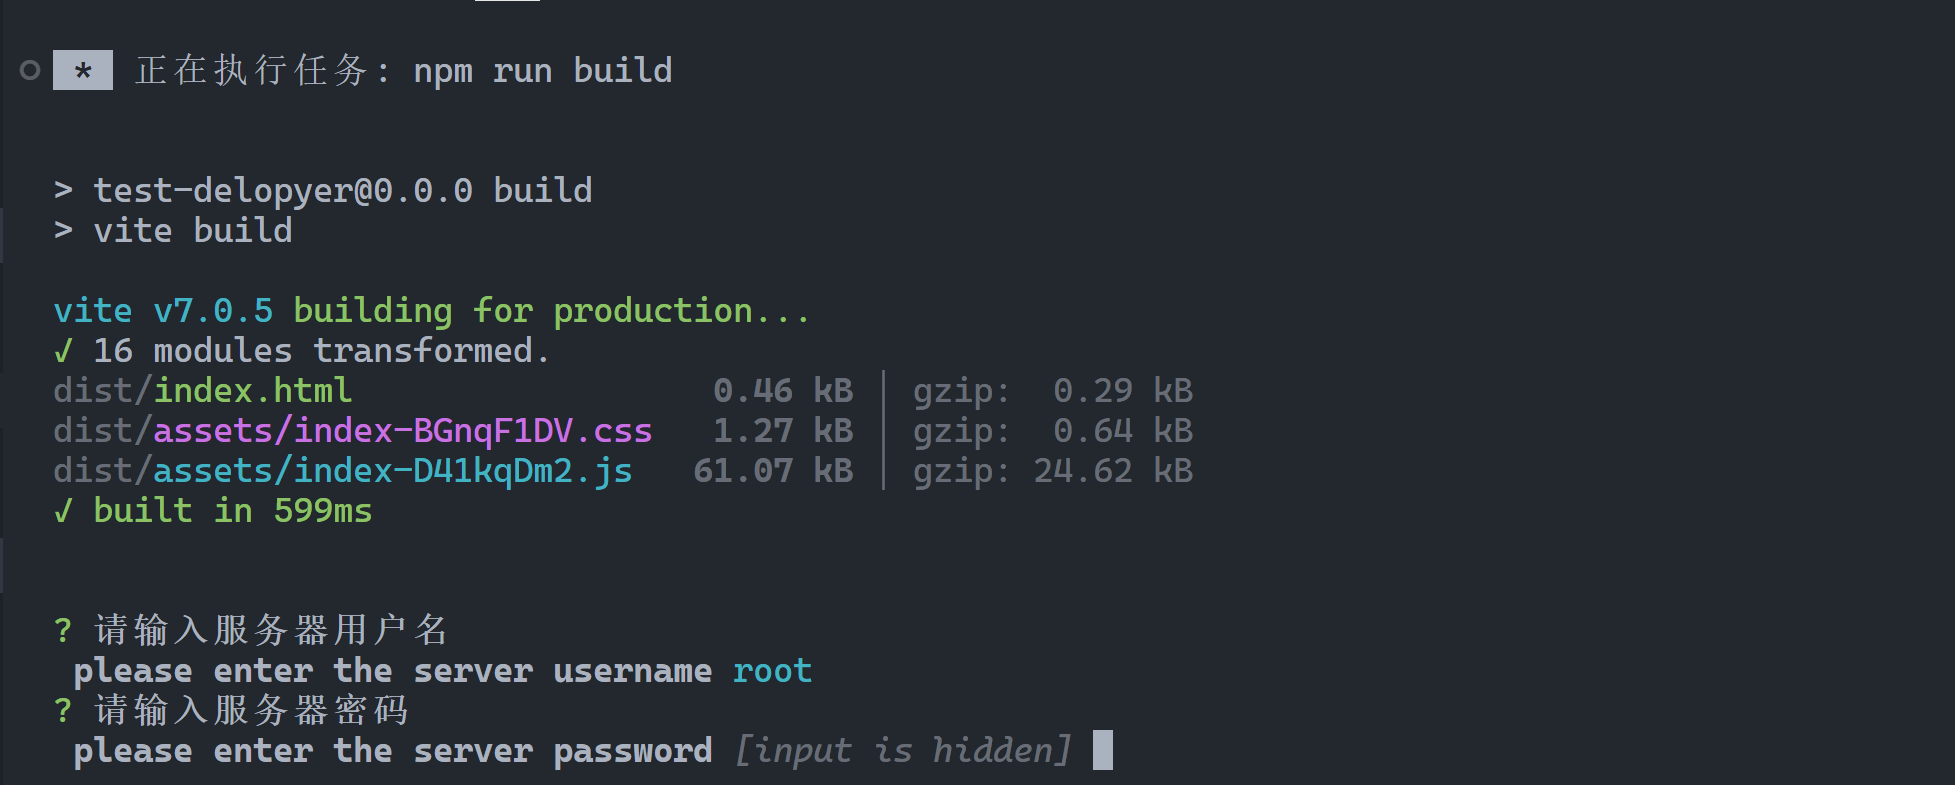
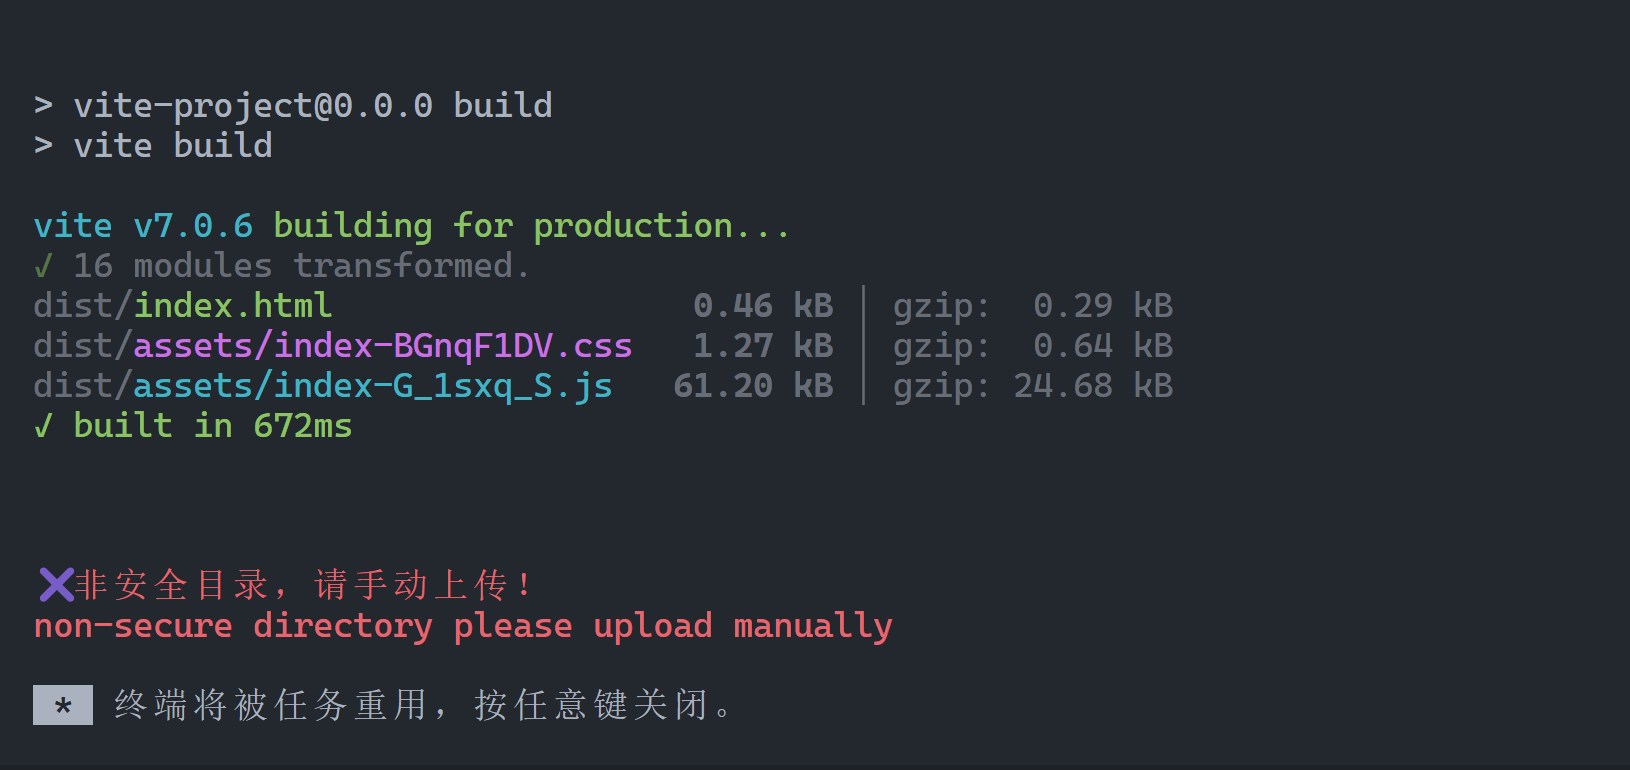
bugfix: 修复目录检查，整理检查方法

Changed region(s): [[0.0, 0.0623, 0.7362, 0.6857], [0.0, 0.7169, 0.5828, 0.9974]]

diff --git a/src/index.js b/src/index.js
@@ -5,10 +5,11 @@ const scpClient = require("scp2");
 let Client = require("ssh2").Client;
 let conn = new Client();
 
+let defaultConfig = {
+  readyTimeout: 5000
+};
+
 module.exports = function (options) {
-  let defaultConfig = {
-    readyTimeout: 5000
-  };
   return {
     name: "vite-plugin-auto-deployer",
     configResolved(resolvedCofnig) {
@@ -18,10 +19,12 @@ module.exports = function (options) {
     },
     async closeBundle() {
       console.log("\n");
-      const { env } = defaultConfig;
-      if (env === "development") {
+
+      // 是否是开发环境
+      if (isDev(defaultConfig)) {
         return;
       }
+
       if (Array.isArray(options) && !!options.length) {
         options = options.find((item) => item.mode == env);
         if (!options) {
@@ -34,6 +37,28 @@ module.exports = function (options) {
         }
       }
 
+      defaultConfig = { ...options, ...defaultConfig };
+
+      // 检查必填项
+      if (!checkRequiredFields(defaultConfig)) {
+        console.log(
+          chalk.red(
+            "\n✖ 缺少必填项，请手动上传！ \nmissing required fields please upload manually\n"
+          )
+        );
+        return;
+      }
+
+      // 检测是否为安全目录
+      if (isDangerDir(defaultConfig)) {
+        console.log(
+          chalk.red(
+            "\n✖ 非安全目录，请手动上传！ \nnon-secure directory please upload manually\n"
+          )
+        );
+        return;
+      }
+
       if (options.name) {
         console.log(
           chalk.blue(
@@ -42,50 +67,18 @@ module.exports = function (options) {
         );
       }
 
-      const { password, username } = options;
-      const question = [];
-
-      if (!username) {
-        question.push({
-          type: "input",
-          name: "username",
-          default: "root",
-          message: "请输入服务器用户名 \n please enter the server username",
-          validate: (val) => {
-            if (!val) {
-              return "请输入服务器用户名 \n please enter the server username";
-            }
-            return true;
-          }
-        });
+      // 检测登录信息
+      if (!await checkLoginInfo(defaultConfig)) {
+        console.log(
+          chalk.red(
+            "\n✖ 登录信息不完整，请手动上传！ \nlogin information incomplete please upload manually\n"
+          )
+        );
+        return;
       }
 
-      if (!password) {
-        question.push({
-          type: "password",
-          name: "password",
-          message: "请输入服务器密码 \n please enter the server password",
-          validate: (val) => {
-            if (!val) {
-              return "请输入服务器密码 \n please enter the server password";
-            }
-            return true;
-          }
-        });
-      }
-
-      const answers = await inquirer.prompt(question);
-      if (answers.username) {
-        options.username = answers.username;
-      }
-
-      if (answers.password) {
-        options.password = answers.password;
-      }
-      let megerOption = { ...options, ...defaultConfig };
-
-      conn.connect(megerOption);
-      conn.on("ready", () => onReady(megerOption));
+      conn.connect(defaultConfig);
+      conn.on("ready", () => onReady(defaultConfig));
       conn.on("error", onError);
     }
   };
@@ -96,49 +89,6 @@ function onReady(options) {
   console.log(
     `\n服务器连接已就绪: ${host}:${port}\nthe server connection is ready: ${host}:${port} \n`
   );
-
-  if (!path) {
-    console.log(
-      chalk.red("请配置远程目录~ \n please configure the remote directory~ \n")
-    );
-
-    console.log(chalk.red("连接已关闭 \nconnection closed"));
-    conn.end();
-    return false;
-  }
-
-  // 检测路径是否是系统目录
-  const warnPath = [
-    "/",
-    "/bin",
-    "/boot",
-    "/dev",
-    "/etc",
-    "/home",
-    "/lib",
-    "/opt",
-    "/proc",
-    "/root",
-    "/run",
-    "/sbin",
-    "/srv",
-    "/sys",
-    "/var",
-    "/*"
-  ];
-
-  if (warnPath.includes(path) || path.includes("*")) {
-    console.log(
-      chalk.red(
-        "您当前正在做操系统目录，程序已终止，请手动操作~ \nyou are currently operating the system directory and the program has terminated please manually operate \n"
-      )
-    );
-
-    console.log(chalk.red("连接已关闭 \n connection closed"));
-
-    conn.end();
-    return false;
-  }
 
   conn.exec(`rm -rf ${path}/*`, (err, stream) => {
     if (err) throw err;
@@ -174,9 +124,111 @@ function onReady(options) {
   });
 }
 
+// 是否开发环境
+function isDev({ env }) {
+  return env === "development";
+}
+
+// 检查必填项
+function checkRequiredFields(options) {
+  const { host, path, port } = options;
+  if (!port) {
+    options.port = 22;
+  }
+
+  if (!host) {
+    console.log(
+      chalk.red("🤔请配置服务器地址 \nplease configure the server address\n")
+    );
+  }
+  if (!path) {
+    console.log(
+      chalk.red("🤔请配置远程目录~ \nplease configure remote directory\n")
+    );
+  }
+  if (!host || !path) {
+    return;
+  }
+
+  return true;
+}
+
+// 检测是否为安全目录
+function isDangerDir({ path }) {
+  // 检测路径是否是系统目录
+  const warnPath = [
+    "*",
+    "/",
+    "/bin",
+    "/boot",
+    "/dev",
+    "/etc",
+    "/home",
+    "/lib",
+    "/opt",
+    "/proc",
+    "/root",
+    "/run",
+    "/sbin",
+    "/srv",
+    "/sys",
+    "/var",
+    "/*"
+  ];
+
+  return warnPath.includes(path);
+}
+
+// 检测登录信息
+async function checkLoginInfo(defaultConfig) {
+  const { password, username } = defaultConfig;
+  const question = [];
+
+  if (!username) {
+    question.push({
+      type: "input",
+      name: "username",
+      default: "root",
+      message: "请输入服务器用户名 \n please enter the server username",
+      validate: (val) => {
+        if (!val) {
+          return "请输入服务器用户名 \n please enter the server username";
+        }
+        return true;
+      }
+    });
+  }
+
+  if (!password) {
+    question.push({
+      type: "password",
+      name: "password",
+      message: "请输入服务器密码 \n please enter the server password",
+      validate: (val) => {
+        if (!val) {
+          return "请输入服务器密码 \n please enter the server password";
+        }
+        return true;
+      }
+    });
+  }
+
+  const answers = await inquirer.prompt(question);
+  if (answers.username) {
+    defaultConfig.username = answers.username;
+  }
+
+  if (answers.password) {
+    defaultConfig.password = answers.password;
+  }
+
+  return defaultConfig.username && defaultConfig.password;
+
+}
+
+// 连接失败处理
 function onError(e) {
-  console.log(chalk.red("\n连接失败\n"));
-  console.log(chalk.red("connection failed:"));
+  console.log(chalk.red("\n连接失败:\nconnection failed:"));
   if (e.message.includes("authentication")) {
     console.log(chalk.red("\n请检查用户名密码是否正确!"));
     console.log(

diff --git a/README.zh-CN.md b/README.zh-CN.md
@@ -36,6 +36,7 @@ pnpm add -D vite-plugin-auto-deployer
 ###### -[✔] 🔐 主动询问用户名、密码，对服务器信息更安全
 
 # 使用教程
+##### tips: 选填配置  username:root  port: 22 
 
 ```js
 // vite.config.js
@@ -44,6 +45,7 @@ import autoDeployer from "vite-plugin-auto-deployer";
 // 单服务器
 const serverInfo = {
   // 配置对应环境
+  name:'测试环境',
   mode: "staging",
   host: "101.43.164.172",
   port: 22,
@@ -82,23 +84,32 @@ export default defineConfig({
 
 ## 使用截图
 
-##### 🔐 用户名或密码为空时，提示输入，输入完会自动执行
-
-###### 默认用户名为 root
-
-![](https://gitee.com/qq_1326632/vite-plugin-deployer/raw/master/images/1.png)
 
 ###### 隐藏式密码输入
 
+![](https://gitee.com/qq_1326632/vite-plugin-deployer/raw/master/images/3.png)
+
+###### 必填校验提示
+
+
+![](https://gitee.com/qq_1326632/vite-plugin-deployer/raw/master/images/1.png)
+
+
+
+###### 安全目录检查
+
 ![](https://gitee.com/qq_1326632/vite-plugin-deployer/raw/master/images/2.png)
 
-###### 上传目录检查
 
-![](https://gitee.com/qq_1326632/vite-plugin-deployer/raw/master/images/3.png)
+###### 密码错误
+
+![](https://gitee.com/qq_1326632/vite-plugin-deployer/raw/master/images/4.png)
+
+
 
 ###### 上传完成提示
 
-![](https://gitee.com/qq_1326632/vite-plugin-deployer/raw/master/images/4.png)
+![](https://gitee.com/qq_1326632/vite-plugin-deployer/raw/master/images/5.png)
 
 ⭐⭐⭐⭐⭐
 

diff --git a/readme.md b/readme.md
@@ -84,20 +84,32 @@ export default defineConfig({
 
 ## Use screenshots
 
-##### 🔐 When the username or password is empty, it will be prompted to enter
-
-
-###### the default username is root
-![](https://gitee.com/qq_1326632/vite-plugin-deployer/raw/master/images/1.png)
 
 ###### hidden password input
-![](https://gitee.com/qq_1326632/vite-plugin-deployer/raw/master/images/2.png)
 
-###### upload directory check
 ![](https://gitee.com/qq_1326632/vite-plugin-deployer/raw/master/images/3.png)
 
-###### upload completion prompt
+###### mandatory verification prompt
+
+
+![](https://gitee.com/qq_1326632/vite-plugin-deployer/raw/master/images/1.png)
+
+
+
+###### security directory check
+
+![](https://gitee.com/qq_1326632/vite-plugin-deployer/raw/master/images/2.png)
+
+
+###### password error
+
 ![](https://gitee.com/qq_1326632/vite-plugin-deployer/raw/master/images/4.png)
+
+
+
+###### upload completion prompt
+
+![](https://gitee.com/qq_1326632/vite-plugin-deployer/raw/master/images/5.png)
 
 ⭐⭐⭐⭐⭐
 
